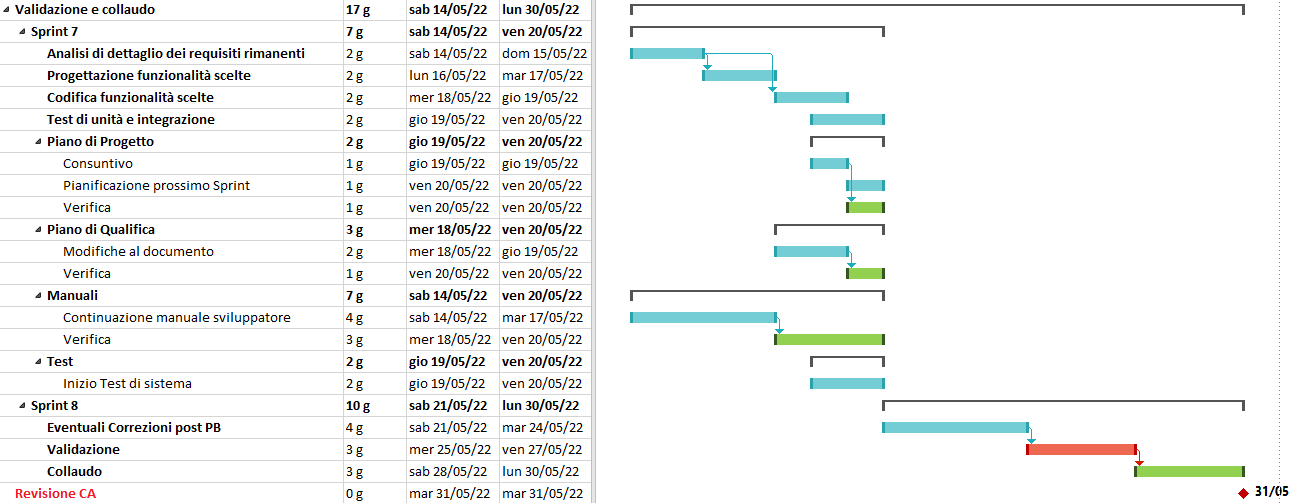
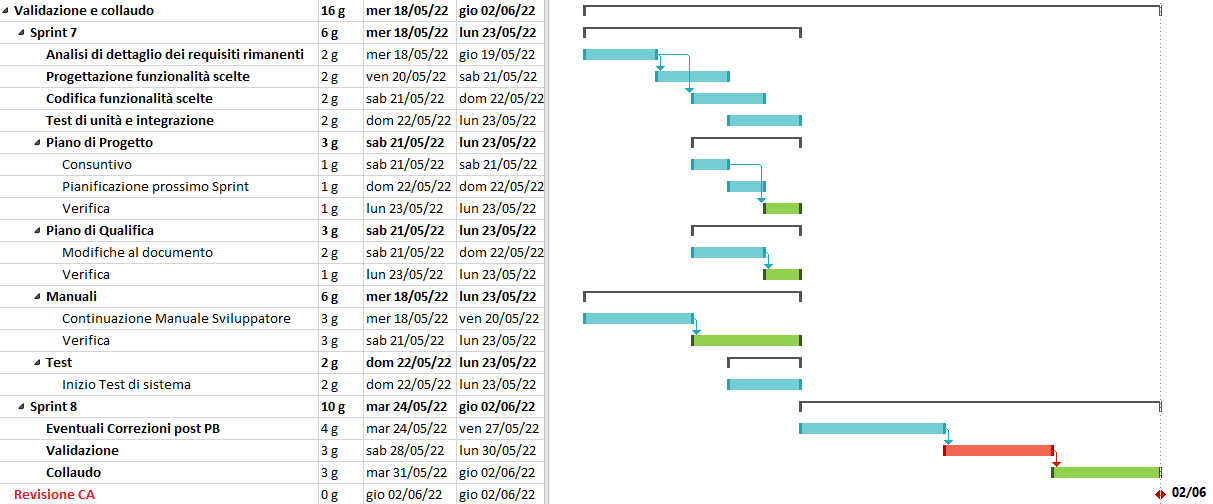
update PdP

diff --git a/src/piano_di_progetto/sezioni/pianificazione.tex b/src/piano_di_progetto/sezioni/pianificazione.tex
@@ -260,7 +260,7 @@ In questo periodo i ruoli maggiormente coinvolti sono: \roleDesignerLow{}, \role
 \end{figure}
 
 \subsubsection{Sprint 6} \label{subsubsection:sprint_6}
-\textbf{Periodo:} dal 2022/05/07 al 2022/05/12.
+\textbf{Periodo:} dal 2022/05/07 al 2022/05/16.
 \bigskip
 \\Gli obiettivi che il gruppo si prepone per questo sprint\glo{} sono:
 \begin{itemize}
@@ -287,16 +287,16 @@ In questo periodo i ruoli maggiormente coinvolti sono: \roleDesignerLow{}, \role
 %%%%%%%%%%%%%%%%%%%%%%%%%%%%%%%%%%%%%%%%%%%%%%%%%%%%%%%%%%%%%%
 
 \subsection{Validazione e collaudo} \label{subsection:pianificazione_validazione}
-\textbf{Periodo:} dal 2022/05/14 al 2022/05/30.
+\textbf{Periodo:} dal 2022/05/18 al 2022/06/02.
 \bigskip
 \\Questo periodo ha inizio dopo il periodo di Progettazione di dettaglio e codifica dei requisiti e termina con la scadenza di consegna dei documenti per la revisione di \CA{} (CA\glo{}).
 Questo periodo rappresenta l'atto conclusivo delle attività di verifica realizzate precedentemente.
 \subsubsection{Sprint 7} \label{subsubsection:sprint_7}
-\textbf{Periodo:} dal 2022/05/14 al 2022/05/20.
+\textbf{Periodo:} dal 2022/05/18 al 2022/05/23.
 \bigskip
 \\Nel primo Sprint\glo{} verranno implementati i requisiti mancanti in attesa della revisione della \PB{} da parte del committente.
 \subsubsection{Sprint 8} \label{subsubsection:sprint_8}
-\textbf{Periodo:} dal 2022/05/21 al 2022/05/30.
+\textbf{Periodo:} dal 2022/05/24 al 2022/06/02.
 \bigskip
 \\Nel secondo Sprint\glo{} il gruppo si concentrerà nella eventuale correzione della documentazione previa revisione e successivamente sarà impegnato nella effettiva validazione e successivo collaudo dell'applicativo.
 \\Il sistema verrà collaudato e ci si accerterà che il prodotto realizzato sia pienamente conforme alle aspettative.
